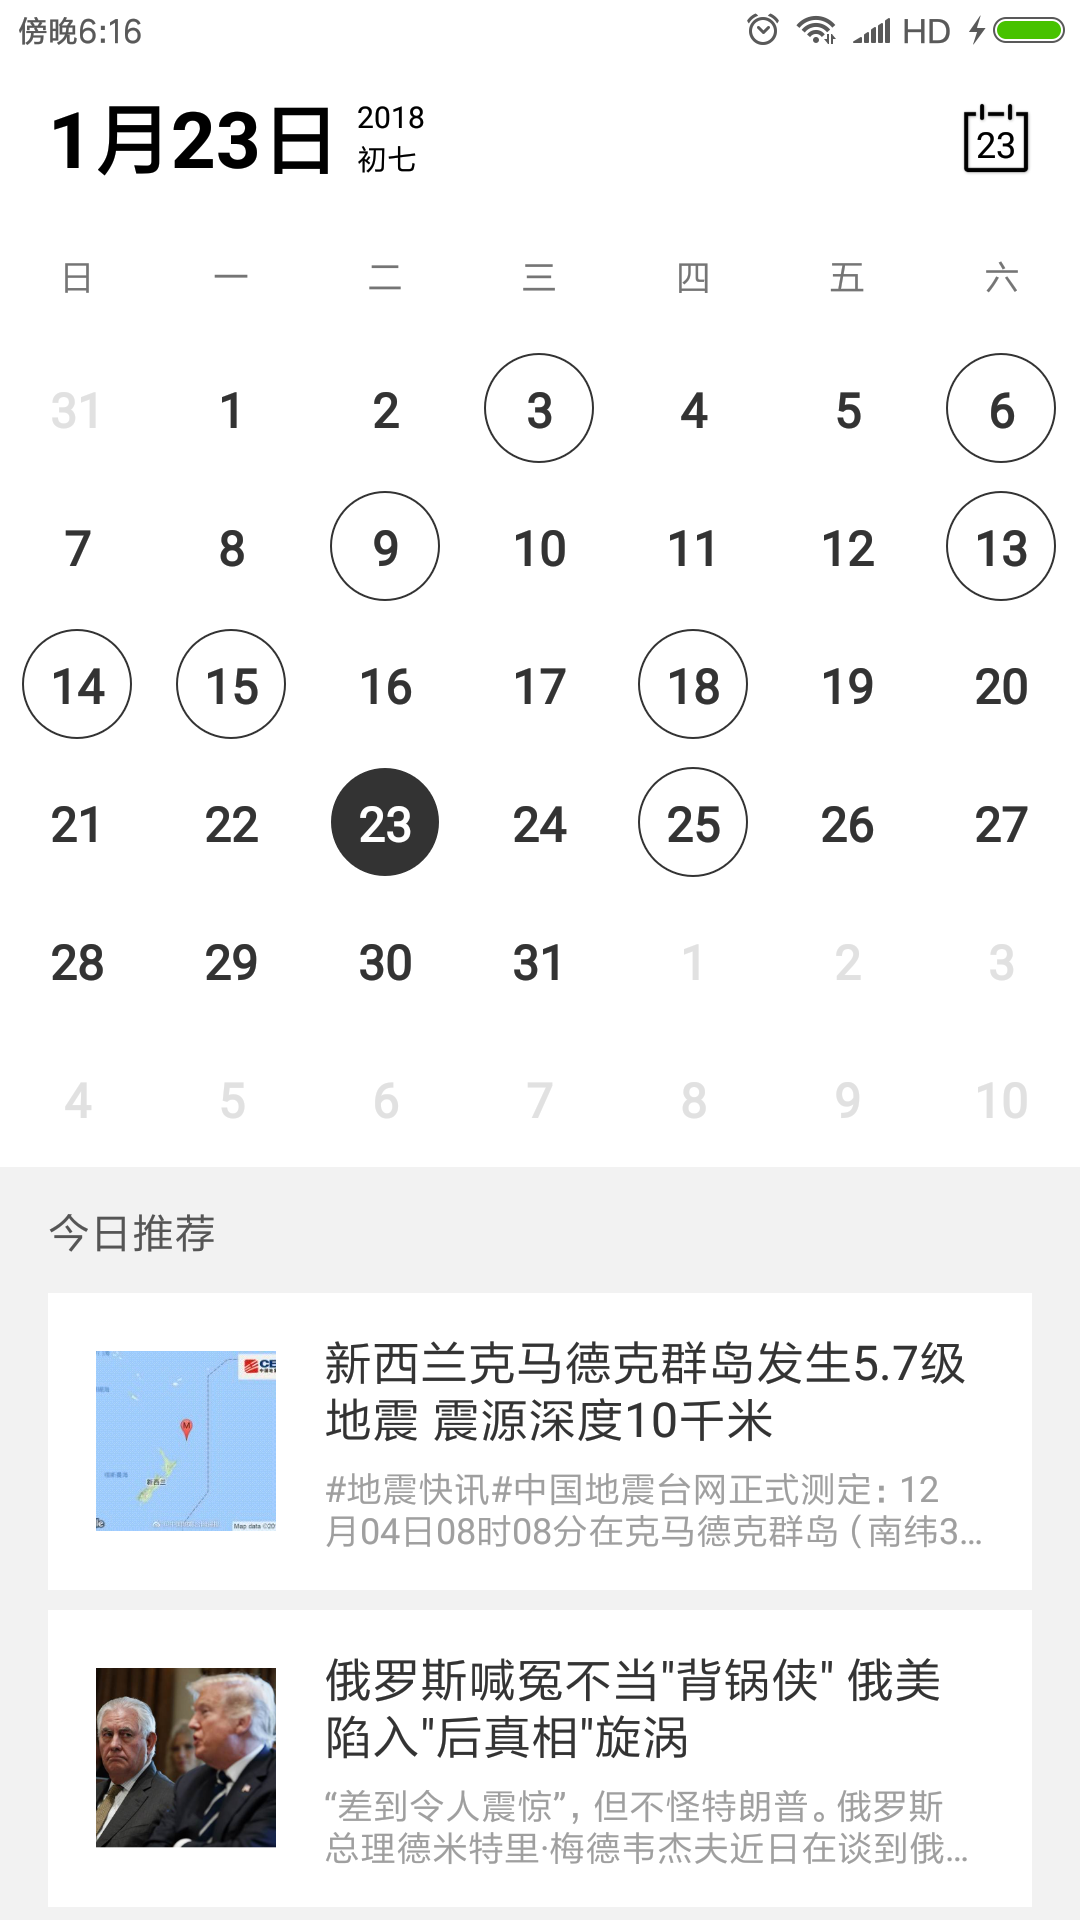
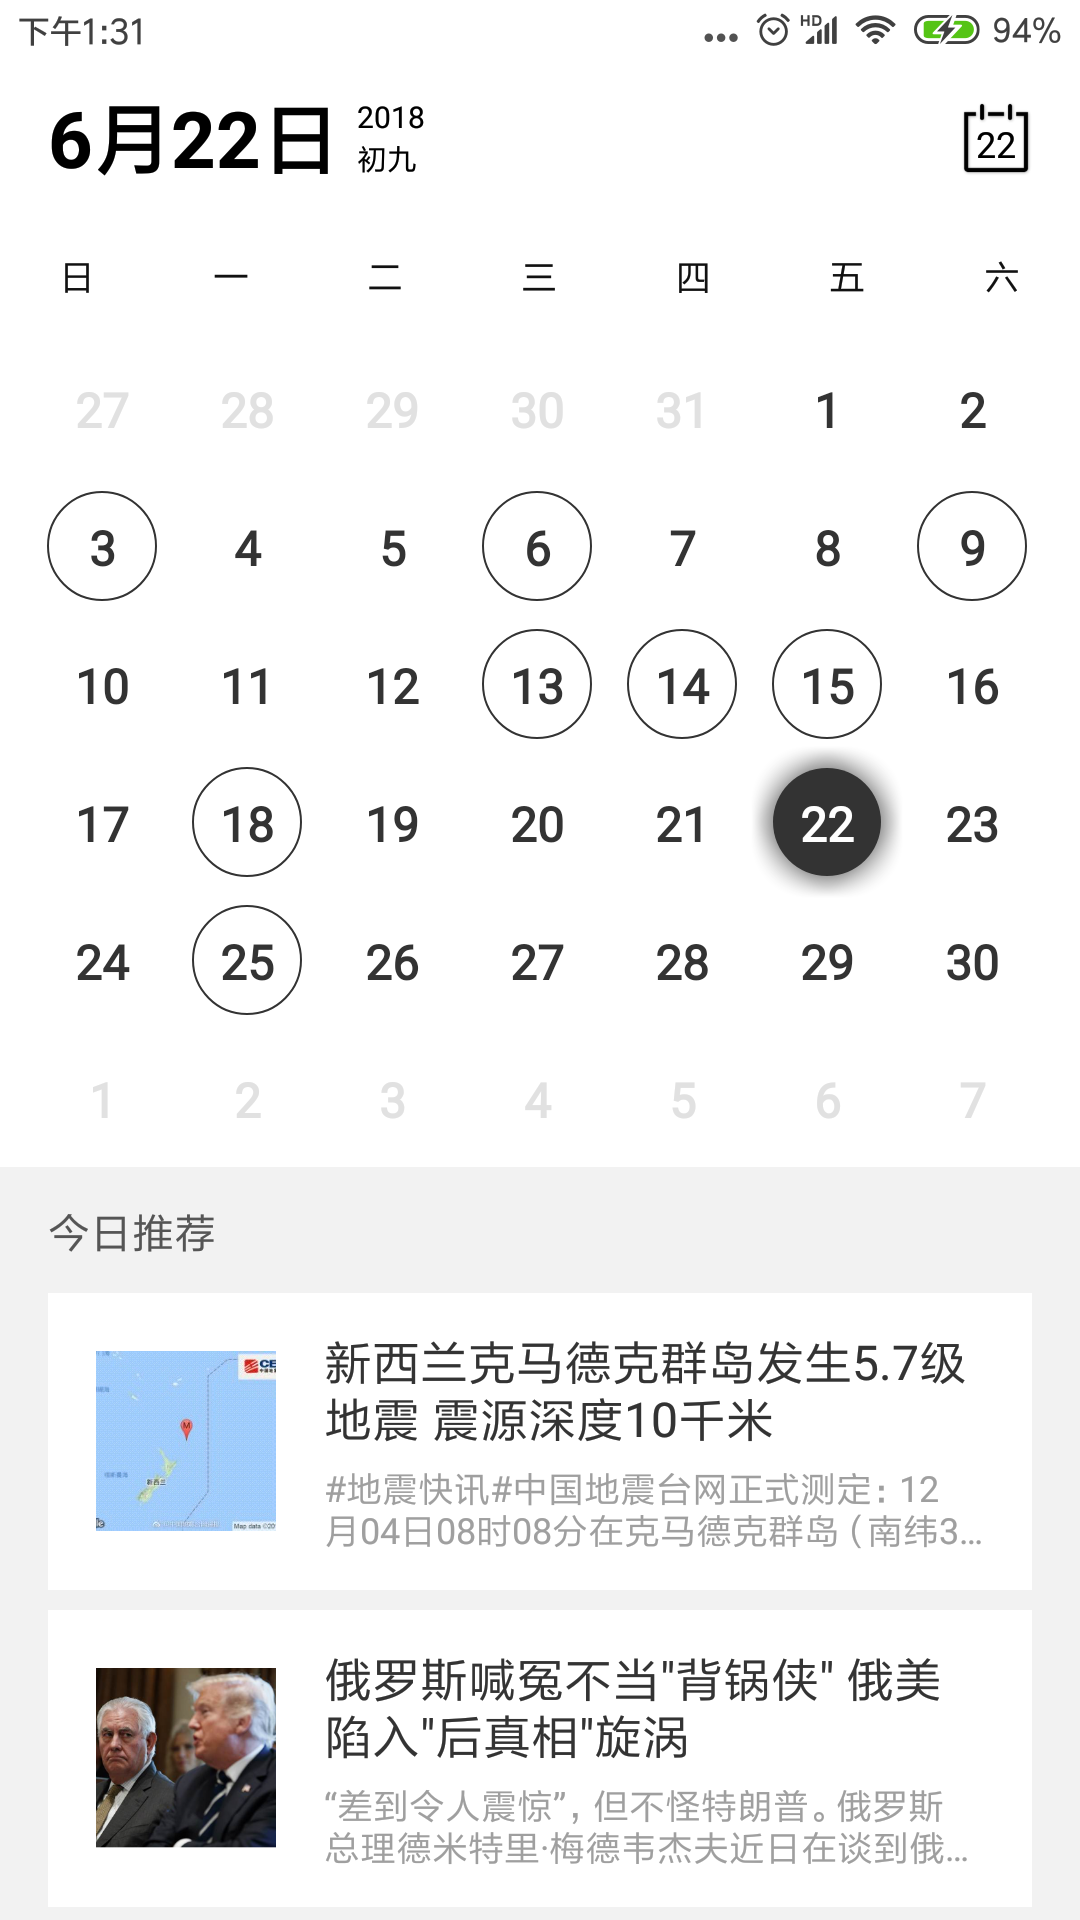
支持内部padding，demo全新特效

diff --git a/calendarview/src/main/java/com/haibin/calendarview/WeekBar.java b/calendarview/src/main/java/com/haibin/calendarview/WeekBar.java
@@ -90,6 +90,9 @@ public class WeekBar extends LinearLayout {
      * @param weekStart 周起始
      */
     protected void onWeekStartChange(int weekStart) {
+        if (!"com.haibin.calendarview.WeekBar".equalsIgnoreCase(getClass().getName())) {
+            return;
+        }
         for (int i = 0; i < getChildCount(); i++) {
             ((TextView) getChildAt(i)).setText(getWeekString(i, weekStart));
         }
@@ -105,22 +108,28 @@ public class WeekBar extends LinearLayout {
      */
     protected int getViewIndexByCalendar(Calendar calendar, int weekStart) {
         int week = calendar.getWeek() + 1;
-        if (weekStart == 1) {
+        if (weekStart == CalendarViewDelegate.WEEK_START_WITH_SUN) {
             return week - 1;
         }
-        if (weekStart == 2) {
-            return week == 1 ? 6 : week - 2;
+        if (weekStart == CalendarViewDelegate.WEEK_START_WITH_MON) {
+            return week == CalendarViewDelegate.WEEK_START_WITH_SUN ? 6 : week - 2;
         }
-        return week == 7 ? 0 : week;
+        return week == CalendarViewDelegate.WEEK_START_WITH_SAT ? 0 : week;
     }
 
+    /**
+     * 或者周文本，这个方法仅供父类使用
+     * @param index index
+     * @param weekStart weekStart
+     * @return 或者周文本
+     */
     private String getWeekString(int index, int weekStart) {
         String[] weeks = getContext().getResources().getStringArray(R.array.week_string_array);
 
-        if (weekStart == 1) {
+        if (weekStart == CalendarViewDelegate.WEEK_START_WITH_SUN) {
             return weeks[index];
         }
-        if (weekStart == 2) {
+        if (weekStart == CalendarViewDelegate.WEEK_START_WITH_MON) {
             return weeks[index == 6 ? 0 : index + 1];
         }
         return weeks[index == 0 ? 6 : index - 1];

diff --git a/app/src/main/java/com/haibin/calendarviewproject/meizu/MeiZuMonthView.java b/app/src/main/java/com/haibin/calendarviewproject/meizu/MeiZuMonthView.java
@@ -1,8 +1,11 @@
 package com.haibin.calendarviewproject.meizu;
 
 import android.content.Context;
+import android.graphics.BlurMaskFilter;
 import android.graphics.Canvas;
+import android.graphics.EmbossMaskFilter;
 import android.graphics.Paint;
+import android.view.View;
 
 import com.haibin.calendarview.Calendar;
 import com.haibin.calendarview.MonthView;
@@ -44,10 +47,15 @@ public class MeiZuMonthView extends MonthView {
         Paint.FontMetrics metrics = mSchemeBasicPaint.getFontMetrics();
         mSchemeBaseLine = mRadio - metrics.descent + (metrics.bottom - metrics.top) / 2 + dipToPx(getContext(), 1);
 
+        //兼容硬件加速无效的代码
+        setLayerType(View.LAYER_TYPE_SOFTWARE, mSchemeBasicPaint);
+        //4.0以上硬件加速会导致无效
+        mSchemeBasicPaint.setMaskFilter(new BlurMaskFilter(25, BlurMaskFilter.Blur.SOLID));
     }
 
     /**
      * 绘制选中的日子
+     *
      * @param canvas    canvas
      * @param calendar  日历日历calendar
      * @param x         日历Card x起点坐标
@@ -64,6 +72,7 @@ public class MeiZuMonthView extends MonthView {
 
     /**
      * 绘制标记的事件日子
+     *
      * @param canvas   canvas
      * @param calendar 日历calendar
      * @param x        日历Card x起点坐标
@@ -86,6 +95,7 @@ public class MeiZuMonthView extends MonthView {
 
     /**
      * 绘制文本
+     *
      * @param canvas     canvas
      * @param calendar   日历calendar
      * @param x          日历Card x起点坐标

diff --git a/calendarview/src/main/java/com/haibin/calendarview/CalendarViewDelegate.java b/calendarview/src/main/java/com/haibin/calendarview/CalendarViewDelegate.java
@@ -101,6 +101,11 @@ final class CalendarViewDelegate {
     private boolean preventLongPressedSelected;
 
     /**
+     * 日历内部左右padding
+     */
+    private int mCalendarPadding;
+
+    /**
      * 年视图字体大小
      */
     private int mYearViewMonthTextSize,
@@ -251,6 +256,7 @@ final class CalendarViewDelegate {
 
         LunarCalendar.init(context);
 
+        mCalendarPadding = (int) array.getDimension(R.styleable.CalendarView_calendar_padding, 0);
         mSchemeTextColor = array.getColor(R.styleable.CalendarView_scheme_text_color, 0xFFFFFFFF);
         mSchemeLunarTextColor = array.getColor(R.styleable.CalendarView_scheme_lunar_text_color, 0xFFe1e1e1);
         mSchemeThemeColor = array.getColor(R.styleable.CalendarView_scheme_theme_color, 0x50CFCFCF);
@@ -548,6 +554,10 @@ final class CalendarViewDelegate {
         LunarCalendar.setupLunarCalendar(mCurrentDate);
     }
 
+    int getCalendarPadding() {
+        return mCalendarPadding;
+    }
+
     void setPreventLongPressedSelected(boolean preventLongPressedSelected) {
         this.preventLongPressedSelected = preventLongPressedSelected;
     }
@@ -556,7 +566,7 @@ final class CalendarViewDelegate {
         return preventLongPressedSelected;
     }
 
-    void clearSelectedScheme(){
+    void clearSelectedScheme() {
         mSelectedCalendar.setScheme(null);
         mSelectedCalendar.setSchemeColor(0);
         mSelectedCalendar.setSchemes(null);

diff --git a/app/src/main/java/com/haibin/calendarviewproject/custom/CustomMonthView.java b/app/src/main/java/com/haibin/calendarviewproject/custom/CustomMonthView.java
@@ -1,10 +1,12 @@
 package com.haibin.calendarviewproject.custom;
 
 import android.content.Context;
+import android.graphics.BlurMaskFilter;
 import android.graphics.Canvas;
 import android.graphics.Color;
 import android.graphics.Paint;
 import android.text.TextUtils;
+import android.view.View;
 
 import com.haibin.calendarview.Calendar;
 import com.haibin.calendarview.MonthView;
@@ -91,6 +93,15 @@ public class CustomMonthView extends MonthView {
 
         Paint.FontMetrics metrics = mSchemeBasicPaint.getFontMetrics();
         mSchemeBaseLine = mCircleRadius - metrics.descent + (metrics.bottom - metrics.top) / 2 + dipToPx(getContext(), 1);
+
+        //兼容硬件加速无效的代码
+        setLayerType(View.LAYER_TYPE_SOFTWARE, mSelectedPaint);
+        //4.0以上硬件加速会导致无效
+        mSelectedPaint.setMaskFilter(new BlurMaskFilter(28, BlurMaskFilter.Blur.SOLID));
+
+        setLayerType(View.LAYER_TYPE_SOFTWARE, mSchemeBasicPaint);
+        mSchemeBasicPaint.setMaskFilter(new BlurMaskFilter(28, BlurMaskFilter.Blur.SOLID));
+
     }
 
     @Override

diff --git a/app/src/main/java/com/haibin/calendarviewproject/simple/SimpleMonthView.java b/app/src/main/java/com/haibin/calendarviewproject/simple/SimpleMonthView.java
@@ -1,8 +1,10 @@
 package com.haibin.calendarviewproject.simple;
 
 import android.content.Context;
+import android.graphics.BlurMaskFilter;
 import android.graphics.Canvas;
 import android.graphics.Paint;
+import android.view.View;
 
 import com.haibin.calendarview.Calendar;
 import com.haibin.calendarview.MonthView;
@@ -18,6 +20,10 @@ public class SimpleMonthView extends MonthView {
 
     public SimpleMonthView(Context context) {
         super(context);
+        //兼容硬件加速无效的代码
+        setLayerType(View.LAYER_TYPE_SOFTWARE,mSelectedPaint);
+        //4.0以上硬件加速会导致无效
+        mSelectedPaint.setMaskFilter(new BlurMaskFilter(25, BlurMaskFilter.Blur.SOLID));
     }
 
     @Override
@@ -56,7 +62,7 @@ public class SimpleMonthView extends MonthView {
                     cx,
                     baselineY,
                     mSelectTextPaint);
-        }else if (hasScheme) {
+        } else if (hasScheme) {
             canvas.drawText(String.valueOf(calendar.getDay()),
                     cx,
                     baselineY,

diff --git a/app/src/main/java/com/haibin/calendarviewproject/custom/CustomWeekView.java b/app/src/main/java/com/haibin/calendarviewproject/custom/CustomWeekView.java
@@ -1,10 +1,12 @@
 package com.haibin.calendarviewproject.custom;
 
 import android.content.Context;
+import android.graphics.BlurMaskFilter;
 import android.graphics.Canvas;
 import android.graphics.Color;
 import android.graphics.Paint;
 import android.text.TextUtils;
+import android.view.View;
 
 import com.haibin.calendarview.Calendar;
 import com.haibin.calendarview.WeekView;
@@ -93,6 +95,14 @@ public class CustomWeekView extends WeekView {
 
         Paint.FontMetrics metrics = mSchemeBasicPaint.getFontMetrics();
         mSchemeBaseLine = mCircleRadius - metrics.descent + (metrics.bottom - metrics.top) / 2 + dipToPx(getContext(), 1);
+
+        //兼容硬件加速无效的代码
+        setLayerType(View.LAYER_TYPE_SOFTWARE, mSelectedPaint);
+        //4.0以上硬件加速会导致无效
+        mSelectedPaint.setMaskFilter(new BlurMaskFilter(28, BlurMaskFilter.Blur.SOLID));
+
+        setLayerType(View.LAYER_TYPE_SOFTWARE, mSchemeBasicPaint);
+        mSchemeBasicPaint.setMaskFilter(new BlurMaskFilter(28, BlurMaskFilter.Blur.SOLID));
     }
 
 

diff --git a/calendarview/src/main/java/com/haibin/calendarview/MonthView.java b/calendarview/src/main/java/com/haibin/calendarview/MonthView.java
@@ -68,7 +68,7 @@ public abstract class MonthView extends BaseView {
     protected void onDraw(Canvas canvas) {
         if (mLineCount == 0)
             return;
-        mItemWidth = getWidth() / 7;
+        mItemWidth = (getWidth() - 2 * mDelegate.getCalendarPadding()) / 7;
         onPreviewHook();
         int count = mLineCount * 7;
         int d = 0;
@@ -107,7 +107,7 @@ public abstract class MonthView extends BaseView {
      * @param d        d
      */
     private void draw(Canvas canvas, Calendar calendar, int i, int j, int d) {
-        int x = j * mItemWidth;
+        int x = j * mItemWidth + mDelegate.getCalendarPadding();
         int y = i * mItemHeight;
         onLoopStart(x, y);
         boolean isSelected = d == mCurrentItem;
@@ -238,8 +238,7 @@ public abstract class MonthView extends BaseView {
     }
 
     private Calendar getIndex() {
-        int width = getWidth() / 7;
-        int indexX = (int) mX / width;
+        int indexX = (int) mX / mItemWidth;
         if (indexX >= 7) {
             indexX = 6;
         }

diff --git a/app/src/main/java/com/haibin/calendarviewproject/solay/SolarMonthView.java b/app/src/main/java/com/haibin/calendarviewproject/solay/SolarMonthView.java
@@ -1,9 +1,11 @@
 package com.haibin.calendarviewproject.solay;
 
 import android.content.Context;
+import android.graphics.BlurMaskFilter;
 import android.graphics.Canvas;
 import android.graphics.Color;
 import android.graphics.Paint;
+import android.view.View;
 
 import com.haibin.calendarview.Calendar;
 import com.haibin.calendarview.MonthView;
@@ -35,6 +37,14 @@ public class SolarMonthView extends MonthView {
         mSchemePaint.setColor(0xFFFFFFFF);
         mPointRadius = dipToPx(context, 3.6f);
         mPointPaint.setColor(Color.RED);
+
+        //兼容硬件加速无效的代码
+        setLayerType(View.LAYER_TYPE_SOFTWARE, mPointPaint);
+        //4.0以上硬件加速会导致无效
+        mPointPaint.setMaskFilter(new BlurMaskFilter(28, BlurMaskFilter.Blur.SOLID));
+
+        setLayerType(View.LAYER_TYPE_SOFTWARE, mSchemePaint);
+        mSchemePaint.setMaskFilter(new BlurMaskFilter(28, BlurMaskFilter.Blur.SOLID));
     }
 
     @Override

diff --git a/app/src/main/java/com/haibin/calendarviewproject/solay/SolarWeekView.java b/app/src/main/java/com/haibin/calendarviewproject/solay/SolarWeekView.java
@@ -1,9 +1,11 @@
 package com.haibin.calendarviewproject.solay;
 
 import android.content.Context;
+import android.graphics.BlurMaskFilter;
 import android.graphics.Canvas;
 import android.graphics.Color;
 import android.graphics.Paint;
+import android.view.View;
 
 import com.haibin.calendarview.Calendar;
 import com.haibin.calendarview.WeekView;
@@ -33,6 +35,14 @@ public class SolarWeekView extends WeekView {
         mSchemePaint.setColor(0xFFFFFFFF);
         mPointRadius = dipToPx(context, 3.6f);
         mPointPaint.setColor(Color.RED);
+
+        //兼容硬件加速无效的代码
+        setLayerType(View.LAYER_TYPE_SOFTWARE, mPointPaint);
+        //4.0以上硬件加速会导致无效
+        mPointPaint.setMaskFilter(new BlurMaskFilter(28, BlurMaskFilter.Blur.SOLID));
+
+        setLayerType(View.LAYER_TYPE_SOFTWARE, mSchemePaint);
+        mSchemePaint.setMaskFilter(new BlurMaskFilter(28, BlurMaskFilter.Blur.SOLID));
     }
 
     @Override

diff --git a/calendarview/src/main/java/com/haibin/calendarview/WeekView.java b/calendarview/src/main/java/com/haibin/calendarview/WeekView.java
@@ -40,11 +40,11 @@ public abstract class WeekView extends BaseView {
     protected void onDraw(Canvas canvas) {
         if (mItems.size() == 0)
             return;
-        mItemWidth = getWidth() / 7;
+        mItemWidth = (getWidth() - 2 * mDelegate.getCalendarPadding()) / 7;
         onPreviewHook();
 
         for (int i = 0; i < 7; i++) {
-            int x = i * mItemWidth;
+            int x = i * mItemWidth + mDelegate.getCalendarPadding();
             onLoopStart(x);
             Calendar calendar = mItems.get(i);
             boolean isSelected = i == mCurrentItem;
@@ -205,8 +205,8 @@ public abstract class WeekView extends BaseView {
      * @return 获取点击的日历
      */
     private Calendar getIndex() {
-        int width = (getWidth()) / 7;
-        int indexX = (int) mX / width;
+
+        int indexX = (int) mX / mItemWidth;
         if (indexX >= 7) {
             indexX = 6;
         }

diff --git a/app/src/main/java/com/haibin/calendarviewproject/colorful/ColorfulMonthView.java b/app/src/main/java/com/haibin/calendarviewproject/colorful/ColorfulMonthView.java
@@ -1,7 +1,9 @@
 package com.haibin.calendarviewproject.colorful;
 
 import android.content.Context;
+import android.graphics.BlurMaskFilter;
 import android.graphics.Canvas;
+import android.view.View;
 
 import com.haibin.calendarview.Calendar;
 import com.haibin.calendarview.MonthView;
@@ -17,6 +19,14 @@ public class ColorfulMonthView extends MonthView {
 
     public ColorfulMonthView(Context context) {
         super(context);
+
+        //兼容硬件加速无效的代码
+        setLayerType(View.LAYER_TYPE_SOFTWARE, mSelectedPaint);
+        //4.0以上硬件加速会导致无效
+        mSelectedPaint.setMaskFilter(new BlurMaskFilter(30, BlurMaskFilter.Blur.SOLID));
+
+        setLayerType(View.LAYER_TYPE_SOFTWARE, mSchemePaint);
+        mSchemePaint.setMaskFilter(new BlurMaskFilter(30, BlurMaskFilter.Blur.SOLID));
     }
 
     @Override

diff --git a/app/src/main/java/com/haibin/calendarviewproject/colorful/ColorfulWeekView.java b/app/src/main/java/com/haibin/calendarviewproject/colorful/ColorfulWeekView.java
@@ -1,7 +1,9 @@
 package com.haibin.calendarviewproject.colorful;
 
 import android.content.Context;
+import android.graphics.BlurMaskFilter;
 import android.graphics.Canvas;
+import android.view.View;
 
 import com.haibin.calendarview.Calendar;
 import com.haibin.calendarview.WeekView;
@@ -17,6 +19,13 @@ public class ColorfulWeekView extends WeekView {
 
     public ColorfulWeekView(Context context) {
         super(context);
+        //兼容硬件加速无效的代码
+        setLayerType(View.LAYER_TYPE_SOFTWARE, mSelectedPaint);
+        //4.0以上硬件加速会导致无效
+        mSelectedPaint.setMaskFilter(new BlurMaskFilter(30, BlurMaskFilter.Blur.SOLID));
+
+        setLayerType(View.LAYER_TYPE_SOFTWARE, mSchemePaint);
+        mSchemePaint.setMaskFilter(new BlurMaskFilter(30, BlurMaskFilter.Blur.SOLID));
     }
 
     @Override
